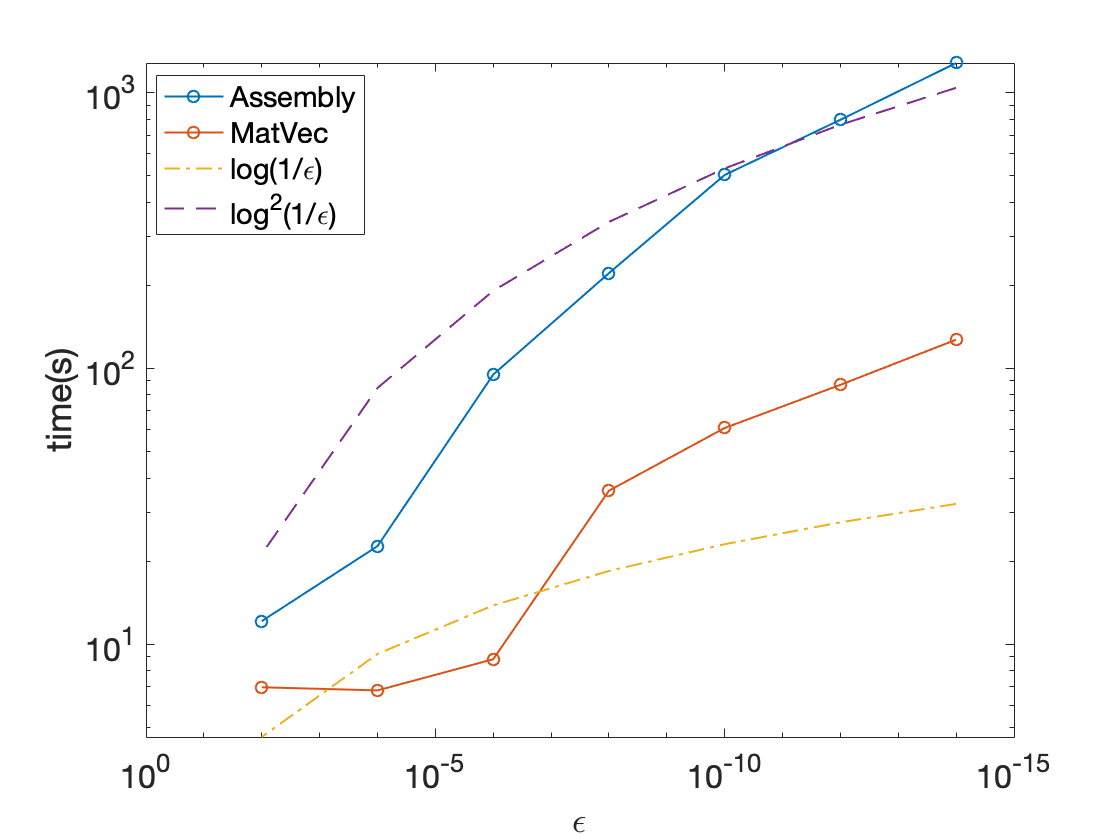
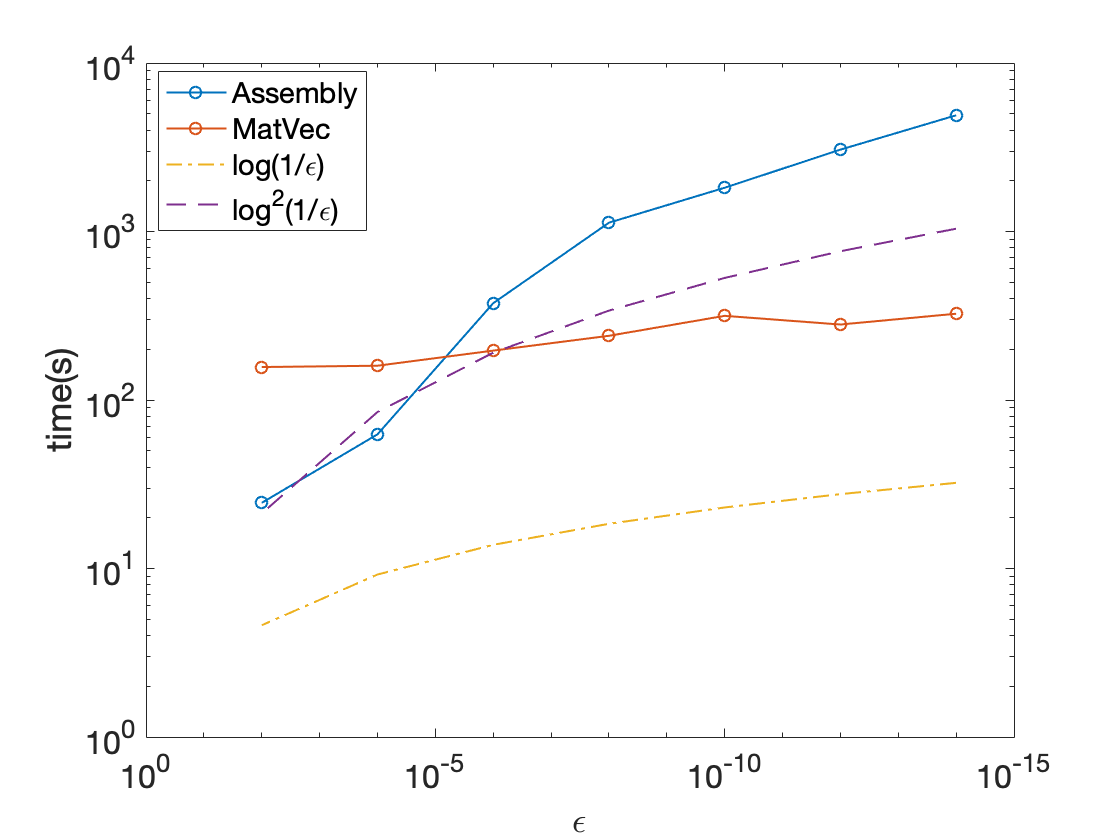
benchmark images changed

diff --git a/examples/testHODLR2D.cpp b/examples/testHODLR2D.cpp
@@ -66,13 +66,13 @@ for (size_t j = 0; j < N; j++) {
     loc(j,k) = 2.0*double(rand())/double(RAND_MAX)-1.0;
   }
 }
-///////////////////////// HODLR2 /////////////////////////////
+///////////////////////// HODLR2D /////////////////////////////
 double start, end;
 start	=	omp_get_wtime();
-HODLR2* hodlr2 = new HODLR2(N, MinParticlesInLeaf, TOL_POW, loc);
+HODLR2D* hodlr2d = new HODLR2D(N, MinParticlesInLeaf, TOL_POW, loc);
 end	=	omp_get_wtime();
 double timeCreateTreeAFMM = end-start;
-std::cout << std::endl << "HODLR2 tree creation time: " << timeCreateTreeAFMM << std::endl;
+std::cout << std::endl << "HODLR2D tree creation time: " << timeCreateTreeAFMM << std::endl;
 
 std::cout << "========================= Problem Parameters =========================" << std::endl;
 std::cout << "Matrix Size                        :" << N << std::endl;
@@ -82,20 +82,20 @@ unsigned nLevels = log(N/MinParticlesInLeaf)/log(4);
 // std::cout << "nLevels: " << nLevels << std::endl;
 
 start	=	omp_get_wtime();
-hodlr2->assemble();
+hodlr2d->assemble();
 end	=	omp_get_wtime();
 double timeAssemble = end-start;
 std::cout << "========================= Assembly Time =========================" << std::endl;
-std::cout << "Time for assemble in HODLR2 form    :" << timeAssemble << std::endl;
+std::cout << "Time for assemble in HODLR2D form    :" << timeAssemble << std::endl;
 
 Eigen::VectorXd outputVec;
 start = omp_get_wtime();
-outputVec = hodlr2->computeMatVecProduct(b);
+outputVec = hodlr2d->computeMatVecProduct(b);
 end   = omp_get_wtime();
 double timeMatVecProduct = (end - start);
-// hodlr2->evaluateError();
+// hodlr2d->evaluateError();
 
 std::cout << "========================= Matrix-Vector Multiplication =========================" << std::endl;
 std::cout << "Time for MatVec in HODLR form      :" << timeMatVecProduct << std::endl;
-hodlr2->evaluateError();
+hodlr2d->evaluateError();
 }

diff --git a/src/HODLR2D.cpp b/src/HODLR2D.cpp
@@ -1,6 +1,6 @@
 #include "HODLR2D.hpp"
 
-HODLR2::HODLR2(int N, int MinParticlesInLeaf, int TOL_POW, Eigen::MatrixXd& loc) {
+HODLR2D::HODLR2D(int N, int MinParticlesInLeaf, int TOL_POW, Eigen::MatrixXd& loc) {
   this->N = N;
   this->MinParticlesInLeaf = MinParticlesInLeaf;
   this->TOL_POW = TOL_POW;
@@ -39,11 +39,11 @@ HODLR2::HODLR2(int N, int MinParticlesInLeaf, int TOL_POW, Eigen::MatrixXd& loc)
   hodlr2dtree->assignBoxChargeLocations();
 }
 
-void HODLR2::assemble() {
+void HODLR2D::assemble() {
   hodlr2dtree->compress();
 }
 
-Eigen::VectorXd HODLR2::computeMatVecProduct(Eigen::VectorXd inputVecUnsorted) {
+Eigen::VectorXd HODLR2D::computeMatVecProduct(Eigen::VectorXd inputVecUnsorted) {
   Eigen::VectorXd outputVec;
   Eigen::VectorXd inputVec(N); //converting array to Eigen vector
   for (size_t i = 0; i < N; i++) {
@@ -64,7 +64,7 @@ Eigen::VectorXd HODLR2::computeMatVecProduct(Eigen::VectorXd inputVecUnsorted) {
   return outputVec;
 }
 
-void HODLR2::evaluateError() {
+void HODLR2D::evaluateError() {
   srand(time(NULL));
   std::cout << std::endl << "Performing error calculation in box: " << std::endl;
   for (size_t i = 0; i < 1; i++) {
@@ -73,7 +73,7 @@ void HODLR2::evaluateError() {
   }
 }
 
-HODLR2::~HODLR2() {
+HODLR2D::~HODLR2D() {
   delete locations;
   delete properties;
   delete sorted_Locations;

diff --git a/examples/tutorial.cpp b/examples/tutorial.cpp
@@ -67,12 +67,12 @@ for (size_t j = 0; j < N; j++) {
   }
 }
 double start, end;
-///////////////////////// HODLR2 /////////////////////////////
+///////////////////////// HODLR2D /////////////////////////////
 start	=	omp_get_wtime();
-HODLR2* hodlr2 = new HODLR2(N, MinParticlesInLeaf, TOL_POW, loc);
+HODLR2D* hodlr2 = new HODLR2D(N, MinParticlesInLeaf, TOL_POW, loc);
 end	=	omp_get_wtime();
 double timeCreateTreeAFMM = end-start;
-std::cout << std::endl << "HODLR2 tree creation time: " << timeCreateTreeAFMM << std::endl;
+std::cout << std::endl << "HODLR2D tree creation time: " << timeCreateTreeAFMM << std::endl;
 
 std::cout << "========================= Problem Parameters =========================" << std::endl;
 std::cout << "Matrix Size                        :" << N << std::endl;
@@ -86,7 +86,7 @@ hodlr2->assemble();
 end	=	omp_get_wtime();
 double timeAssemble = end-start;
 std::cout << "========================= Assembly Time =========================" << std::endl;
-std::cout << "Time for assemble in HODLR2 form    :" << timeAssemble << std::endl;
+std::cout << "Time for assemble in HODLR2D form    :" << timeAssemble << std::endl;
 
 
 // What we are doing here is explicitly generating

diff --git a/include/HODLR2D.hpp b/include/HODLR2D.hpp
@@ -13,7 +13,7 @@
 #include "HODLR2DTree.hpp"
 #include "KDTree.hpp"
 
-class HODLR2 {
+class HODLR2D {
 public:
 	int N;
 	int MinParticlesInLeaf;
@@ -27,11 +27,11 @@ public:
 	double* sorted_Properties;
 	userkernel* mykernel;
 	HODLR2DTree* hodlr2dtree;
-	HODLR2(int N, int MinParticlesInLeaf, int TOL_POW, Eigen::MatrixXd& loc);
+	HODLR2D(int N, int MinParticlesInLeaf, int TOL_POW, Eigen::MatrixXd& loc);
   void assemble();
   Eigen::VectorXd computeMatVecProduct(Eigen::VectorXd inputVecUnsorted);
   void evaluateError();
-  ~HODLR2();
+  ~HODLR2D();
 };
 
 #endif

diff --git a/docs/source/index.rst b/docs/source/index.rst
@@ -1,20 +1,20 @@
 .. role:: underline
     :class: underline
 
-Welcome to HODLR2lib's Documentation!
+Welcome to HODLR2Dlib's Documentation!
 **************************************
 
-About :math:`\texttt{HODLR2lib}`:
+About :math:`\texttt{HODLR2Dlib}`:
 ==================================
 
-HODLR2 is a new class of hierarchical matrices used to represent dense matrices arising in the discretization of elliptic PDEs in 2D. It is an extension of the HODLR idea in 2D. When the domain is 1D, the HODLR structure is such that, the sub-domain corresponding to the sub-matrices that are compressed share only a vertex. If we try to extend the HODLR in 2D, where we again compress the off-diagonal blocks, we see that (apart from compressing the interaction between the sub-domains that share a vertex), sub-domains that share an edge are also compressed. It is observed that the rank of the interaction corresponding to edge sharing boxes grows with N, the problem size.
+HODLR2D is a new class of hierarchical matrices used to represent dense matrices arising in the discretization of elliptic PDEs in 2D. It is an extension of the HODLR idea in 2D. When the domain is 1D, the HODLR structure is such that, the sub-domain corresponding to the sub-matrices that are compressed share only a vertex. If we try to extend the HODLR in 2D, where we again compress the off-diagonal blocks, we see that (apart from compressing the interaction between the sub-domains that share a vertex), sub-domains that share an edge are also compressed. It is observed that the rank of the interaction corresponding to edge sharing boxes grows with N, the problem size.
 
-HODLR2 is a new class of matrix representation, where all the sub-matrices except for the following are compressed
+HODLR2D is a new class of matrix representation, where all the sub-matrices except for the following are compressed
 
 - the sub-matrices corresponding to the interaction between the edge sharing blocks
 - the sub-matrices corresponding to the self interaction (diagonal blocks)
 
-:math:`\texttt{HODLR2lib}` is a library consisting of fast matrix operations for HODLR2 matrices. In the current version, the operation available is matrix multiplication.
+:math:`\texttt{HODLR2Dlib}` is a library consisting of fast matrix operations for HODLR2D matrices. In the current version, the operation available is matrix multiplication.
 
 Low-rank approximation of the appropriate blocks is obtained using ACA. The domain is subdivided based on a KDTree. The algorithm has been parallelized using OpenMP.
 
@@ -43,7 +43,7 @@ Doc Contents
 Other Links
 ===========
 
-Learn more about :math:`\texttt{HODLR2lib}` by visiting the
+Learn more about :math:`\texttt{HODLR2Dlib}` by visiting the
 
 * Code Repository: http://github.com/sivaramambikasaran/HODLR2
 * Documentation: https://hodlr2.rtfd.io

diff --git a/docs/source/benchmarks.rst b/docs/source/benchmarks.rst
@@ -11,19 +11,19 @@ These benchmarks were performed for size of the matrix :math:`N = 1000000`, with
 +----------------+------------+---------+
 |Tolerance       | Assembly(s)|MatVec(s)|
 +================+============+=========+
-|:math:`10^{-2}` |  12.1156   | 6.97508 |
+|:math:`10^{-2}` | 24.5231    | 156.875 |
 +----------------+------------+---------+
-|:math:`10^{-4}` |  22.649    | 6.79404 |
+|:math:`10^{-4}` | 62.5465    | 159.741 |
 +----------------+------------+---------+
-|:math:`10^{-6}` |  94.8494   | 8.81189 |
+|:math:`10^{-6}` | 375.386    | 196.401 |
 +----------------+------------+---------+
-|:math:`10^{-8}` |  221.221   | 35.9898 |
+|:math:`10^{-8}` | 1127.95    | 240.452 |
 +----------------+------------+---------+
-|:math:`10^{-10}`|  502.092   | 60.7432 |
+|:math:`10^{-10}`|     |  |
 +----------------+------------+---------+
-|:math:`10^{-12}`|  795.797   | 87.0883 |
+|:math:`10^{-12}`|     |  |
 +----------------+------------+---------+
-|:math:`10^{-14}`|  1278.38   | 126.954 |
+|:math:`10^{-14}`|     |  |
 +----------------+------------+---------+
 
 .. image:: images/timeVsEpsilon.png
@@ -38,19 +38,19 @@ For these benchmarks, the leaf size is atmost :math:`M = 100`, with tolerance se
 +-----------------------+------------+------------+
 |:math:`N`              | Assembly(s)|MatVec(s)   |
 +=======================+============+============+
-|:math:`10^{3}`         | 0.034163   | 0.00362    |
+|:math:`10^{3}`         |    |     |
 +-----------------------+------------+------------+
-|:math:`5 \times 10^{3}`| 1.05146    | 0.029745   |
+|:math:`5 \times 10^{3}`|  0.900656  | 0.84126   |
 +-----------------------+------------+------------+
-|:math:`10^{4}`         | 2.95279    | 0.046561   |
+|:math:`10^{4}`         |  3.10885   | 1.21267   |
 +-----------------------+------------+------------+
-|:math:`5 \times 10^{4}`| 27.0407    | 0.389191   |
+|:math:`5 \times 10^{4}`|  39.8693   | 8.55219   |
 +-----------------------+------------+------------+
-|:math:`10^{5}`         | 89.297     | 1.67967    |
+|:math:`10^{5}`         |  153.241   | 19.0272    |
 +-----------------------+------------+------------+
-|:math:`5 \times 10^{5}`| 336.318    | 38.3148    |
+|:math:`5 \times 10^{5}`|  936.611   | 139.74    |
 +-----------------------+------------+------------+
-|:math:`10^{6}`         | 795.797    | 87.0883    |
+|:math:`10^{6}`         |     |     |
 +-----------------------+------------+------------+
 
 

diff --git a/docs/source/installation.rst b/docs/source/installation.rst
@@ -19,8 +19,8 @@ Dependencies
 
 **NOTE**: On MacOS, the default compiler is `clang` which doesn't have OpenMP support. You will have to use g++ to make use of the speedups from OpenMP::
 
-    user@computer HODLR2$ brew install g++-8
-    user@computer HODLR2$ export CXX=g++
+    user@computer HODLR2D$ brew install g++-8
+    user@computer HODLR2D$ export CXX=g++
 
 Installation
 -------------
@@ -30,7 +30,7 @@ Manually Installing
 
 Then, set the environment variable ``EIGEN_PATH`` to the location of your Eigen installation. This is needed by the CMake script.::
 
-    user@computer HODLR2$ export EIGEN_PATH=path/to/eigen/
+    user@computer HODLR2D$ export EIGEN_PATH=path/to/eigen/
 
 Testing
 -------
@@ -40,7 +40,7 @@ Key in the file ```examples/testHODLR2D.cpp`` as input under ``INPUT_FILE`` in `
 Then create a directory called ``build`` and navigate to your build directory and run ``cmake path/to/CMakeLists.txt`` and run the generated ``Makefile`` to get your executable.
 To check this on your computer, run the following lines::
 
-    user@computer HODLR2$ mkdir build && cd build
+    user@computer HODLR2D$ mkdir build && cd build
     user@computer build$ cmake ..
     user@computer build$ make
     user@computer build$ ./test_HODLR2
@@ -50,6 +50,6 @@ Building and Executing
 
 Key in the required ``.cpp`` to be used as input under ``INPUT_FILE`` in ``HODLR2lib/CMakeLists.txt``. Here you also set the name of the output executable under ``OUTPUT_EXECUTABLE_NAME``. Then navigate to your build directory and run ``cmake path/to/CMakeLists.txt`` and run the generated ``Makefile`` to get your executable::
 
-    user@computer build$ cmake path/to/HODLR2/
+    user@computer build$ cmake path/to/HODLR2D/
     user@computer build$ make -j n_threads
     user@computer build$ ./executable
